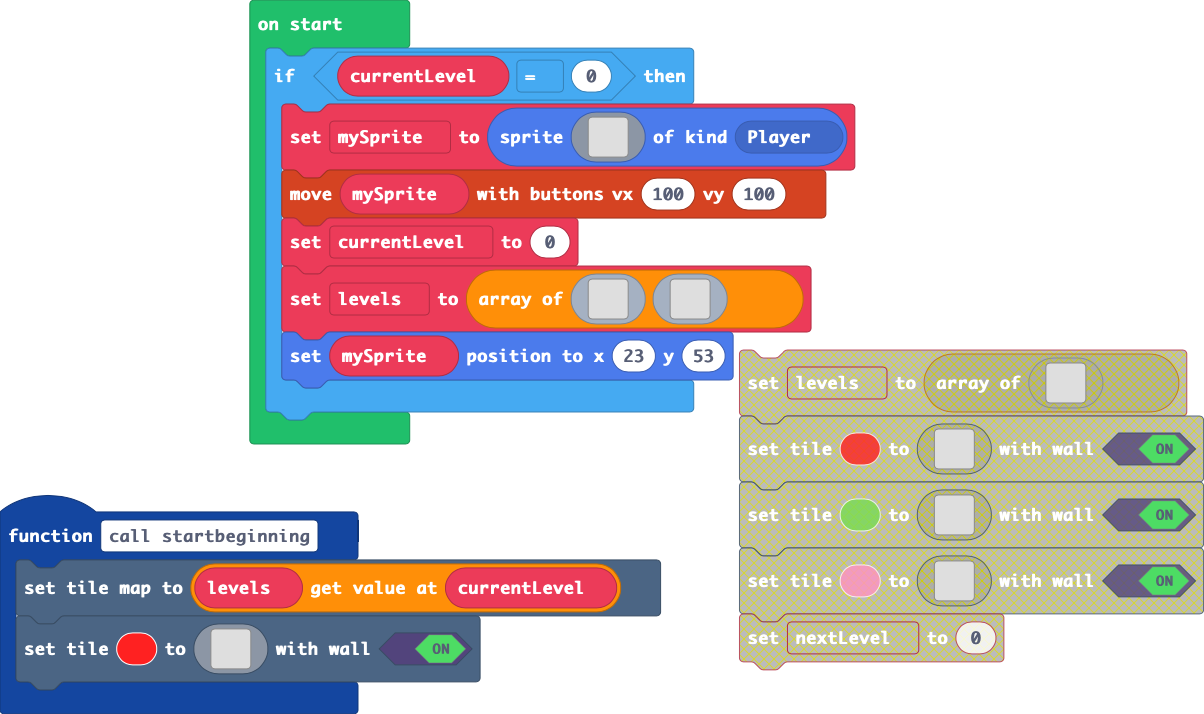
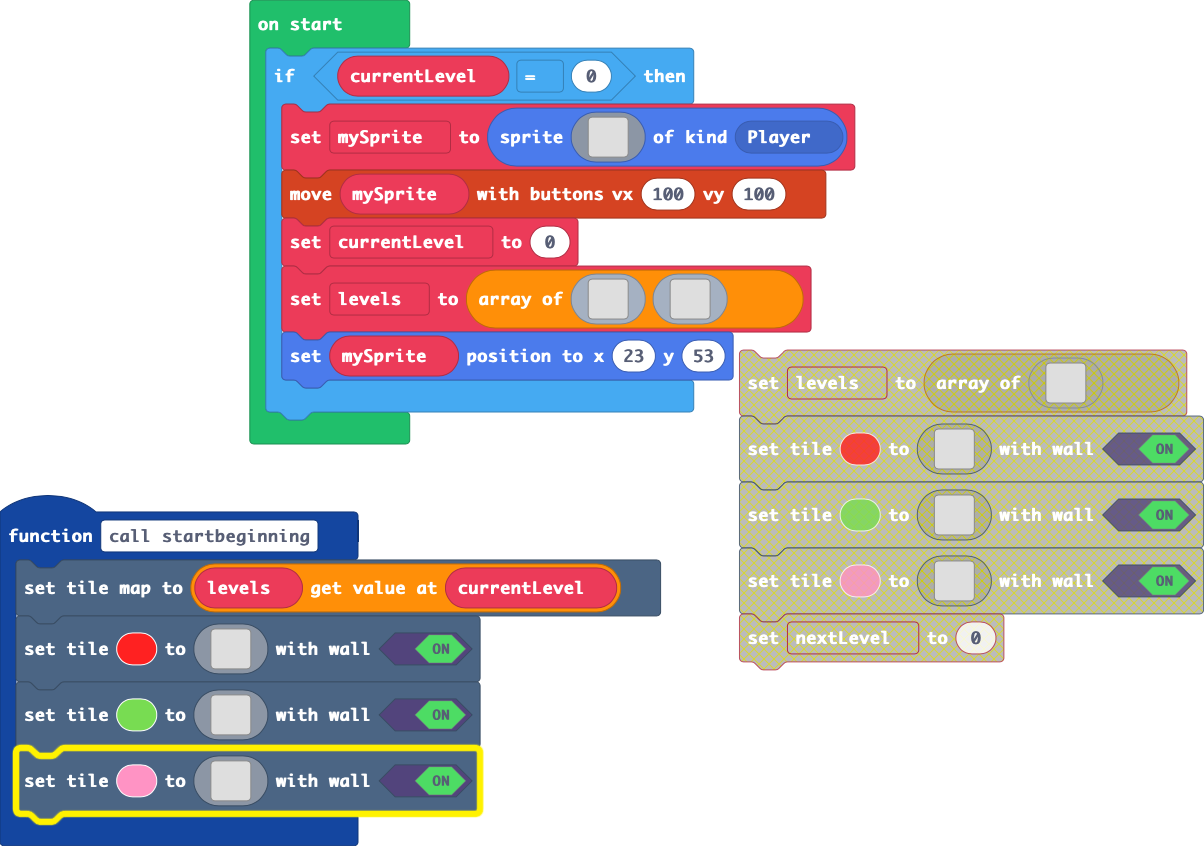
Update main.blocks, main.ts

diff --git a/main.ts b/main.ts
@@ -18,6 +18,42 @@ function call_startbeginning () {
         f f f f f f f f f f f f f f f f 
         f f f f f f f f f f f f f f f f 
         `, true)
+    scene.setTile(7, img`
+        . . . . . . . . . . . . . . . . 
+        . . . . . . . . . . . . . . . . 
+        . . . . . . e e e e e . . . . . 
+        . . . . . . e 5 5 5 e . . . . . 
+        . . . . . . e 5 5 5 e . . . . . 
+        . . . . . . . 5 5 5 . . . . . . 
+        . . . . . 7 7 7 7 7 7 7 . . . . 
+        . . . . . . . 7 7 7 . . . . . . 
+        . . . . . . . 7 7 7 . . . . . . 
+        . . . . . . . 7 7 7 . . . . . . 
+        . . . . . . . 8 8 8 . . . . . . 
+        . . . . . . . 8 8 8 . . . . . . 
+        . . . . . . . 8 8 8 . . . . . . 
+        . . . . . . . . . . . . . . . . 
+        . . . . . . . . . . . . . . . . 
+        . . . . . . . . . . . . . . . . 
+        `, true)
+    scene.setTile(3, img`
+        . . . . . . . . . . . . . . . . 
+        . . . . . . . . . . . . . . . . 
+        . . . . . . . . . . . . . . . . 
+        . . . . . . 4 4 4 4 4 . . . . . 
+        . . . . . . 4 5 5 5 4 . . . . . 
+        . . . . . . 4 5 5 5 4 . . . . . 
+        . . . . . . 4 5 5 5 4 . . . . . 
+        . . . . . 3 3 3 3 3 3 3 . . . . 
+        . . . . . . . 3 3 3 . . . . . . 
+        . . . . . . . 3 3 3 . . . . . . 
+        . . . . . . . 3 3 3 . . . . . . 
+        . . . . . . . c c c . . . . . . 
+        . . . . . . . c c c . . . . . . 
+        . . . . . . . c c c . . . . . . 
+        . . . . . . . . . . . . . . . . 
+        . . . . . . . . . . . . . . . . 
+        `, true)
 }
 let levels: Image[] = []
 let mySprite: Sprite = null
